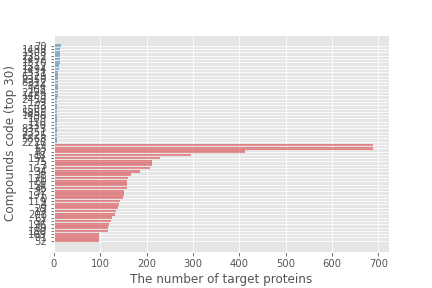
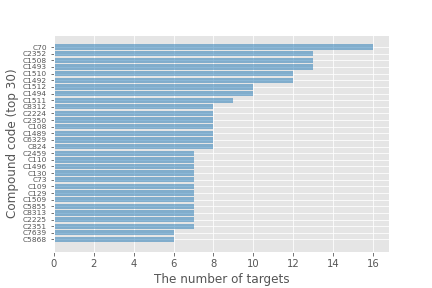
network plot complete

diff --git a/drug-translation/preprocess.py b/drug-translation/preprocess.py
@@ -7,6 +7,7 @@ import matplotlib.pyplot as plt
 import seaborn as sns
 import networkx as nx
 from networkx.drawing.nx_agraph import graphviz_layout
+import matplotlib.patches as mpatches
 import tensorflow as tf
 import tensorflow_text as text
 # %%
@@ -39,18 +40,23 @@ sequence_len_dist_data.columns = ['sequence', 'length']
 # (5) 풀롯팅 하기
 sns.distplot(sequence_len_dist_data[sequence_len_dist_data.sequence == "protein"]['length'], label = "protein", kde = False, color = 'tab:red')
 sns.distplot(sequence_len_dist_data[sequence_len_dist_data.sequence == "compound"]['length'], label = "compound", kde = False, color = 'tab:blue')
-plt.ylabel('Freqs')
-plt.legend(title = 'Sequence')
+plt.style.use('ggplot')
+plt.ylabel('Frequency')
+plt.ylabel('Sequence length')
+plt.legend(title = 'Sequence', facecolor = 'white')
 # plt.title('Sequence Length Distribution')
 plt.savefig('/home/messy92/Leo/Drug-discovery-research/images/sequence_length_distribution')
 
 # %%
-# 단백질 - 화합물 네트워크 확인하기
-# (1) 단백질 시퀀스와 화합물 시퀀스를 카테고리 타입 (factorize)으로 변환후 컬럼 추가
+# 단백질-화합물 네트워크 데이터 (그래프 데이터) 구축
 # trunc_sample_data['FASTA Category'] = trunc_sample_data['BindingDB Target Chain Sequence'].astype('category')
 # trunc_sample_data['SMILES Category'] = trunc_sample_data['Ligand SMILES'].astype('category')
-trunc_sample_data['FASTA Category'] = pd.factorize(trunc_sample_data['BindingDB Target Chain Sequence'])[0]
-trunc_sample_data['SMILES Category'] = pd.factorize(trunc_sample_data['Ligand SMILES'])[0]
+# trunc_sample_data['FASTA Category'] = pd.factorize(trunc_sample_data['BindingDB Target Chain Sequence'])[0]
+# trunc_sample_data['SMILES Category'] = pd.factorize(trunc_sample_data['Ligand SMILES'])[0]
+
+# (1) 단백질 시퀀스와 화합물 시퀀스를 카테고리 타입 (factorize)으로 변환후 컬럼 추가
+trunc_sample_data['FASTA Category'] = np.array([str('P') + str(i) for i in pd.factorize(trunc_sample_data['BindingDB Target Chain Sequence'])[0].tolist()])
+trunc_sample_data['SMILES Category'] = np.array([str('C') + str(i) for i in pd.factorize(trunc_sample_data['Ligand SMILES'])[0].tolist()])
 trunc_sample_data['connection'] = 1
 
 # (2-1) 단백질-화합물 network matrix (transaction matrix) 만들어주기
@@ -62,11 +68,11 @@ top_n = 30
 protein_code = protein_network_matrix.sum(axis=0).sort_values(ascending = True).index.astype('str')[-top_n:]
 transaction_freqs = protein_network_matrix.sum(axis=0).sort_values(ascending = True)[-top_n:]
 plt.style.use('ggplot')
-plt.yticks(fontsize = 300/top_n)
+plt.yticks(fontsize = 300/top_n - 2.5)
 plt.barh(protein_code, transaction_freqs, color = 'tab:red', alpha = 0.5)
 # plt.title('Num of SMILES per FASTA')
 plt.ylabel('Protein code (top ' + str(top_n) + ')')
-plt.xlabel('The number of activating compounds')
+plt.xlabel('The number of bound ligands')
 plt.savefig('/home/messy92/Leo/Drug-discovery-research/images/num_bound_ligands')
 
 # (3-1) 화합물-단백질 network matrix (transaction matrix) 만들어주기
@@ -78,12 +84,74 @@ top_n = 30
 compound_code = compound_network_matrix.sum(axis=0).sort_values(ascending = True).index.astype('str')[-top_n:]
 transaction_freqs = compound_network_matrix.sum(axis=0).sort_values(ascending = True)[-top_n:]
 plt.style.use('ggplot')
-plt.yticks(fontsize = 300/top_n)
-plt.barh(compound_code, transaction_freqs, color = 'tab:blue', alpha =0.5)
+plt.yticks(fontsize = 300/top_n - 2.5)
+plt.barh(compound_code, transaction_freqs, color = 'tab:blue', alpha = 0.5)
 # plt.title('Num of FASTA per SMILES')
-plt.ylabel('Compounds code (top ' + str(top_n) + ')')
-plt.xlabel('The number of target proteins')
+plt.ylabel('Compound code (top ' + str(top_n) + ')')
+plt.xlabel('The number of targets')
 plt.savefig('/home/messy92/Leo/Drug-discovery-research/images/num_activating_targets')
+
+# %%
+# 네트워크 플롯팅
+# 참고 1: https://www.python-graph-gallery.com/network-chart/
+# 참고 2: https://networkx.org/documentation/latest/_downloads/networkx_reference.pdf
+top_n = 30
+protein_code = protein_network_matrix.sum(axis=0).sort_values(ascending = True).index.astype('str')[-top_n:]
+compound_code = compound_network_matrix.sum(axis=0).sort_values(ascending = True).index.astype('str')[-top_n:]
+
+all_idx = np.empty([])
+all_code = np.empty([])
+
+# for i in protein_code[:top_n]:
+for i in compound_code[:top_n]:
+    # idx = np.where(np.array(trunc_sample_data['FASTA Category']) == i)[0]
+    idx = np.where(np.array(trunc_sample_data['SMILES Category']) == i)[0]
+    code = np.repeat(i, len(idx))
+    all_code = np.append(all_code, code)    # 코드의 str값을 담은 array
+    all_idx = np.append(all_idx, idx)       # 각 코드에 해당하는 index값을 담은 array
+all_code = all_code[1:]
+all_idx = all_idx[1:].astype('int')
+
+all_idx.sort()
+np.unique(all_code)
+len(all_idx)
+
+trunc_data_small = trunc_sample_data[['FASTA Category', 'SMILES Category']].iloc[all_idx]
+
+# node의 색깔을 결정하는 property dataframe 만들기
+all_protein_code = np.array(trunc_data_small['FASTA Category'])
+all_compound_code = np.array(trunc_data_small['SMILES Category'])
+len_protein_codes = len(np.unique(all_protein_code))
+len_compound_codes = len(np.unique(all_compound_code))
+
+# 단백질, 화합물 코드 벡터 연결하기
+all_code_ids = np.append(np.unique(all_protein_code), np.unique(all_compound_code))
+
+# 단백질, 화합물 색값 벡터 연결 및 각 색깔 할당 (단백질에 'tab:red', 화합물에 'tab:blue' 값을 매핑)
+all_code_color_values = copy.deepcopy(all_code_ids)
+all_code_color_values[np.arange(len_protein_codes)] = 'tab:red'
+all_code_color_values[np.arange(len_protein_codes, len(all_code_ids))] = 'tab:blue'
+
+# 코드 벡터와 색값 벡터를 컬럼으로 하는 dataframe 생성
+property_dat = pd.DataFrame([all_code_ids, all_code_color_values]).T
+property_dat.columns = ['code', 'color']
+
+# 네트워크 그리기
+G = nx.from_pandas_edgelist(trunc_data_small, 'FASTA Category', 'SMILES Category')
+
+# property dat ㅇㅇㅇ
+property_dat = property_dat.set_index('code')
+property_dat = property_dat.reindex(np.array(G.nodes()))
+
+fig = plt.figure()
+nx.draw(G, with_labels=True, node_size=75, node_color = property_dat['color'], edge_color='black', linewidths=1, font_size=5, pos = graphviz_layout(G, prog = 'neato'), alpha = 0.5)
+red_patch = mpatches.Patch(color='tab:red', label='protein', alpha = 0.5)
+blue_patch = mpatches.Patch(color='tab:blue', label='compound', alpha = 0.5)
+plt.legend(handles=[red_patch, blue_patch], facecolor = 'white', title = "Sequence")
+plt.axis('on')
+plt.savefig('/home/messy92/Leo/Drug-discovery-research/images/protein-compound_network.png')
+plt.show()
+
 
 # %%
 # 단백질 및 화합물의 최대 길이
@@ -221,52 +289,6 @@ len(np.where((X_train_unq[:, None] == X_test_unq).all(-1).any(-1) == True)[0])
 
 
 
-# %%
-## 여기서 부터 네트워크
 
-all_idx = np.empty([])
-all_code = np.empty([])
-# for i in protein_code[:5]:
-for i in compound_code[:10]:
-    # idx = np.where(np.array(trunc_sample_data['FASTA Category']) == int(i))[0]
-    idx = np.where(np.array(trunc_sample_data['SMILES Category']) == int(i))[0]
-    code = np.repeat(i, len(idx))
-    all_code = np.append(all_code, code)
-    all_idx = np.append(all_idx, idx)
-all_code = all_code[1:]
-all_idx = all_idx[1:].astype('int')
-
-all_idx.sort()
-np.unique(all_code)
-len(all_idx)
-
-tmp_dat = trunc_sample_data[['FASTA Category', 'SMILES Category']].iloc[all_idx]
-
-# %%
-# node의 색깔을 결정하는 property dataframe 만들기
-tmp_protein_code = np.array(tmp_dat['FASTA Category'])
-tmp_compound_code = np.array(tmp_dat['SMILES Category'])
-len_protein_codes = len(np.unique(tmp_protein_code))
-len_compound_codes = len(np.unique(tmp_compound_code))
-
-all_code_ids = np.append(np.unique(tmp_protein_code), np.unique(tmp_compound_code))
-all_code_values = copy.deepcopy(all_code_ids)
-
-all_code_values[np.arange(len_protein_codes)] = 1
-all_code_values[np.arange(len_compound_codes, len(all_code_ids))] = 0
-
-property_dat = pd.DataFrame([all_code_ids, all_code_values]).T
-property_dat.columns = ['IDs', 'values']
-# %%
-# 네트워크 그리기
-G = nx.from_pandas_edgelist(tmp_dat, 'FASTA Category', 'SMILES Category')
-
-# property ㅇㅇㅇ
-property_dat = property_dat.set_index('IDs')
-property_dat.reindex(G.nodes())
-
-fig = plt.figure()
-nx.draw(G, with_labels=True, node_color=property_dat['values'], node_size=75, edge_color='black', linewidths=1, font_size=5, pos = graphviz_layout(G, prog = 'neato'))
-plt.show()
 
 # %%

diff --git a/drug-translation/temp.py b/drug-translation/temp.py
@@ -1,0 +1,11 @@
+# %%
+import matplotlib.pyplot as plt
+import numpy as np
+# %%
+pos = 3
+i = np.arange(512)[np.newaxis, :]
+denominator = 1 / np.power(10000, (2 * i) / np.float32(512))
+numerator = np.arange(pos)[:, np.newaxis]
+numerator * denominator
+# %%
+# %%
